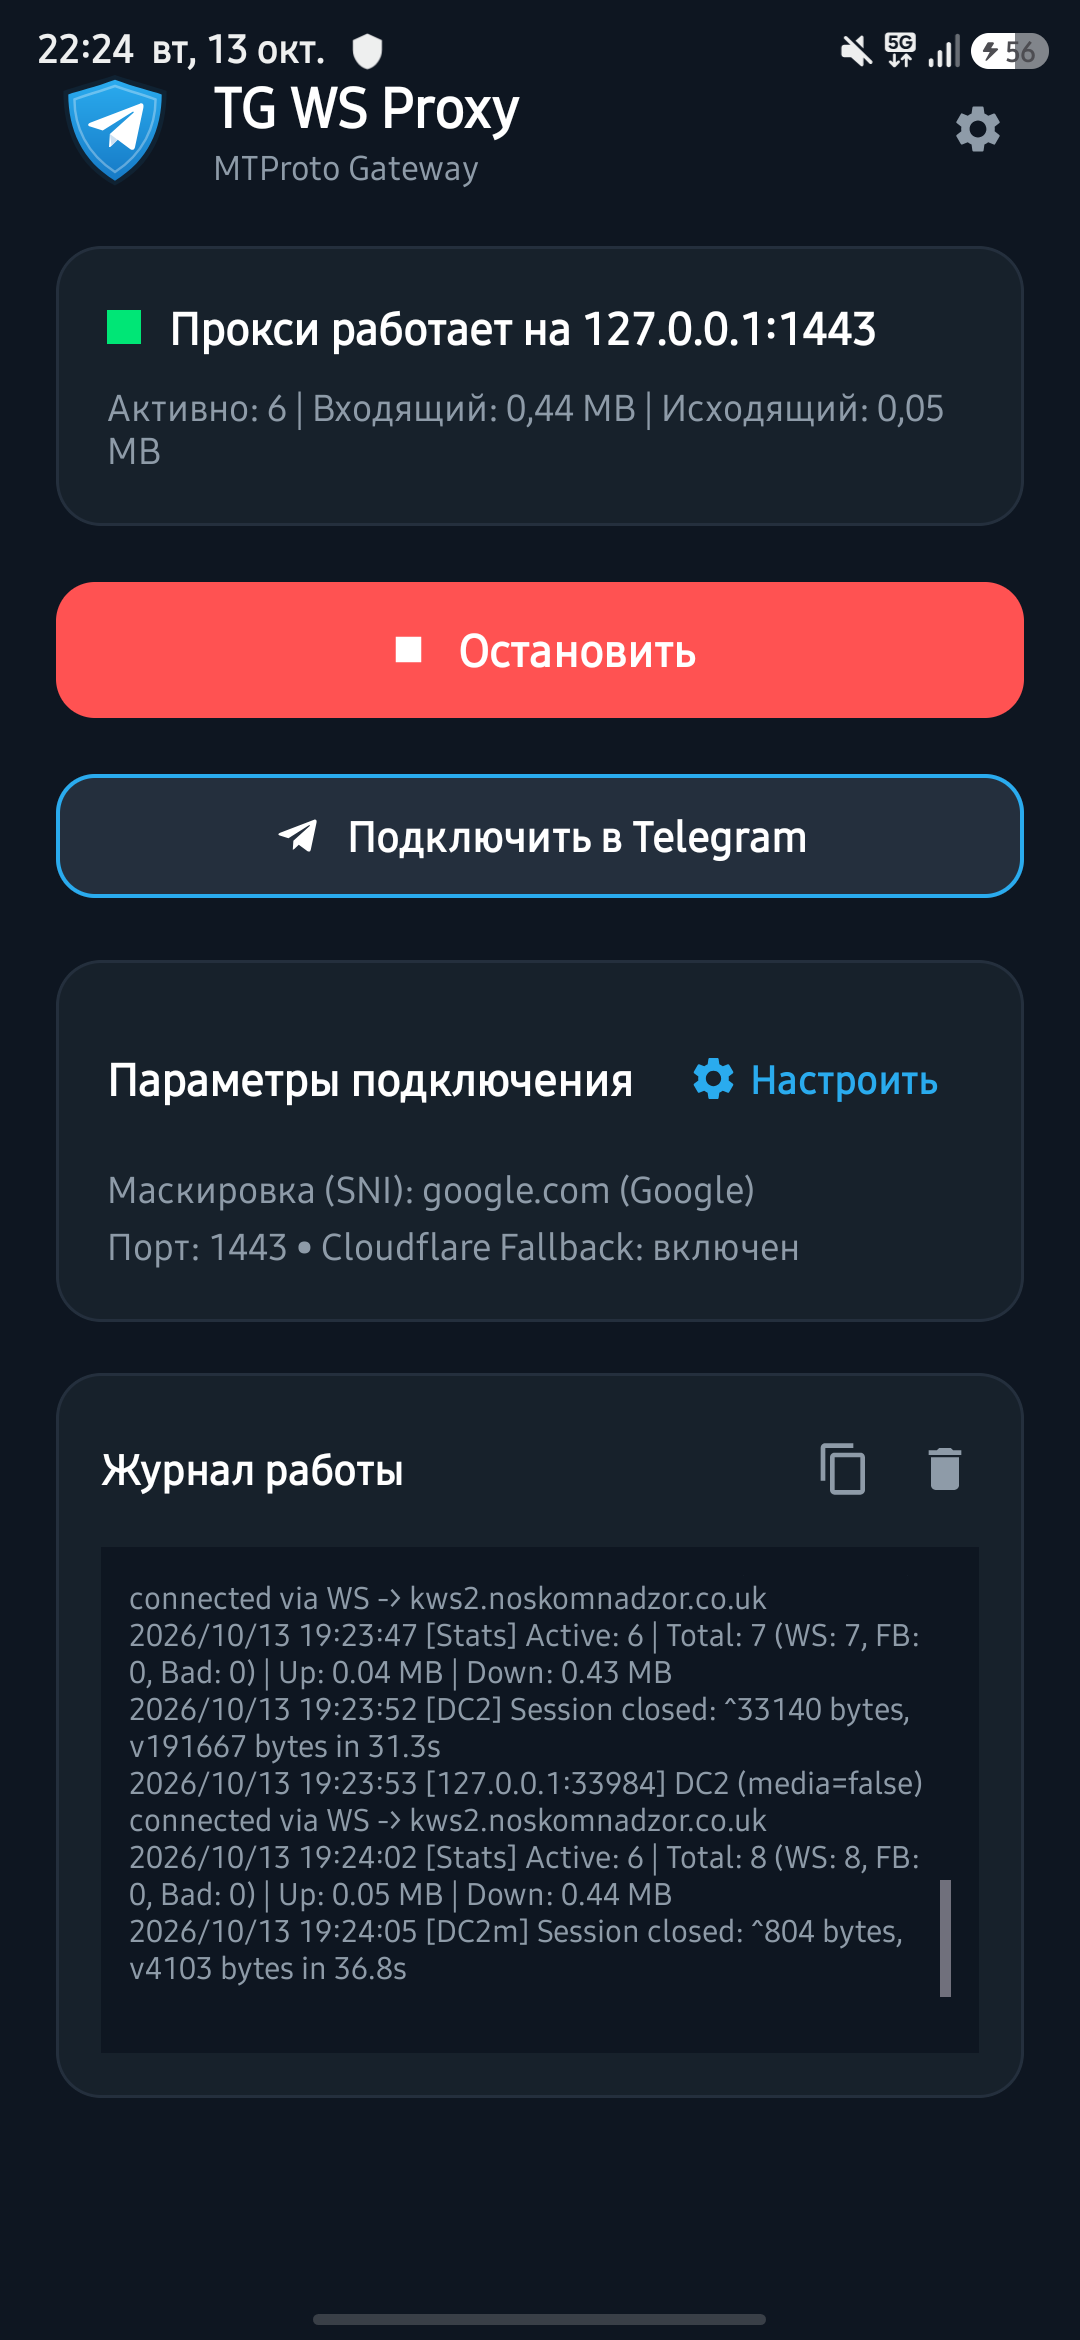
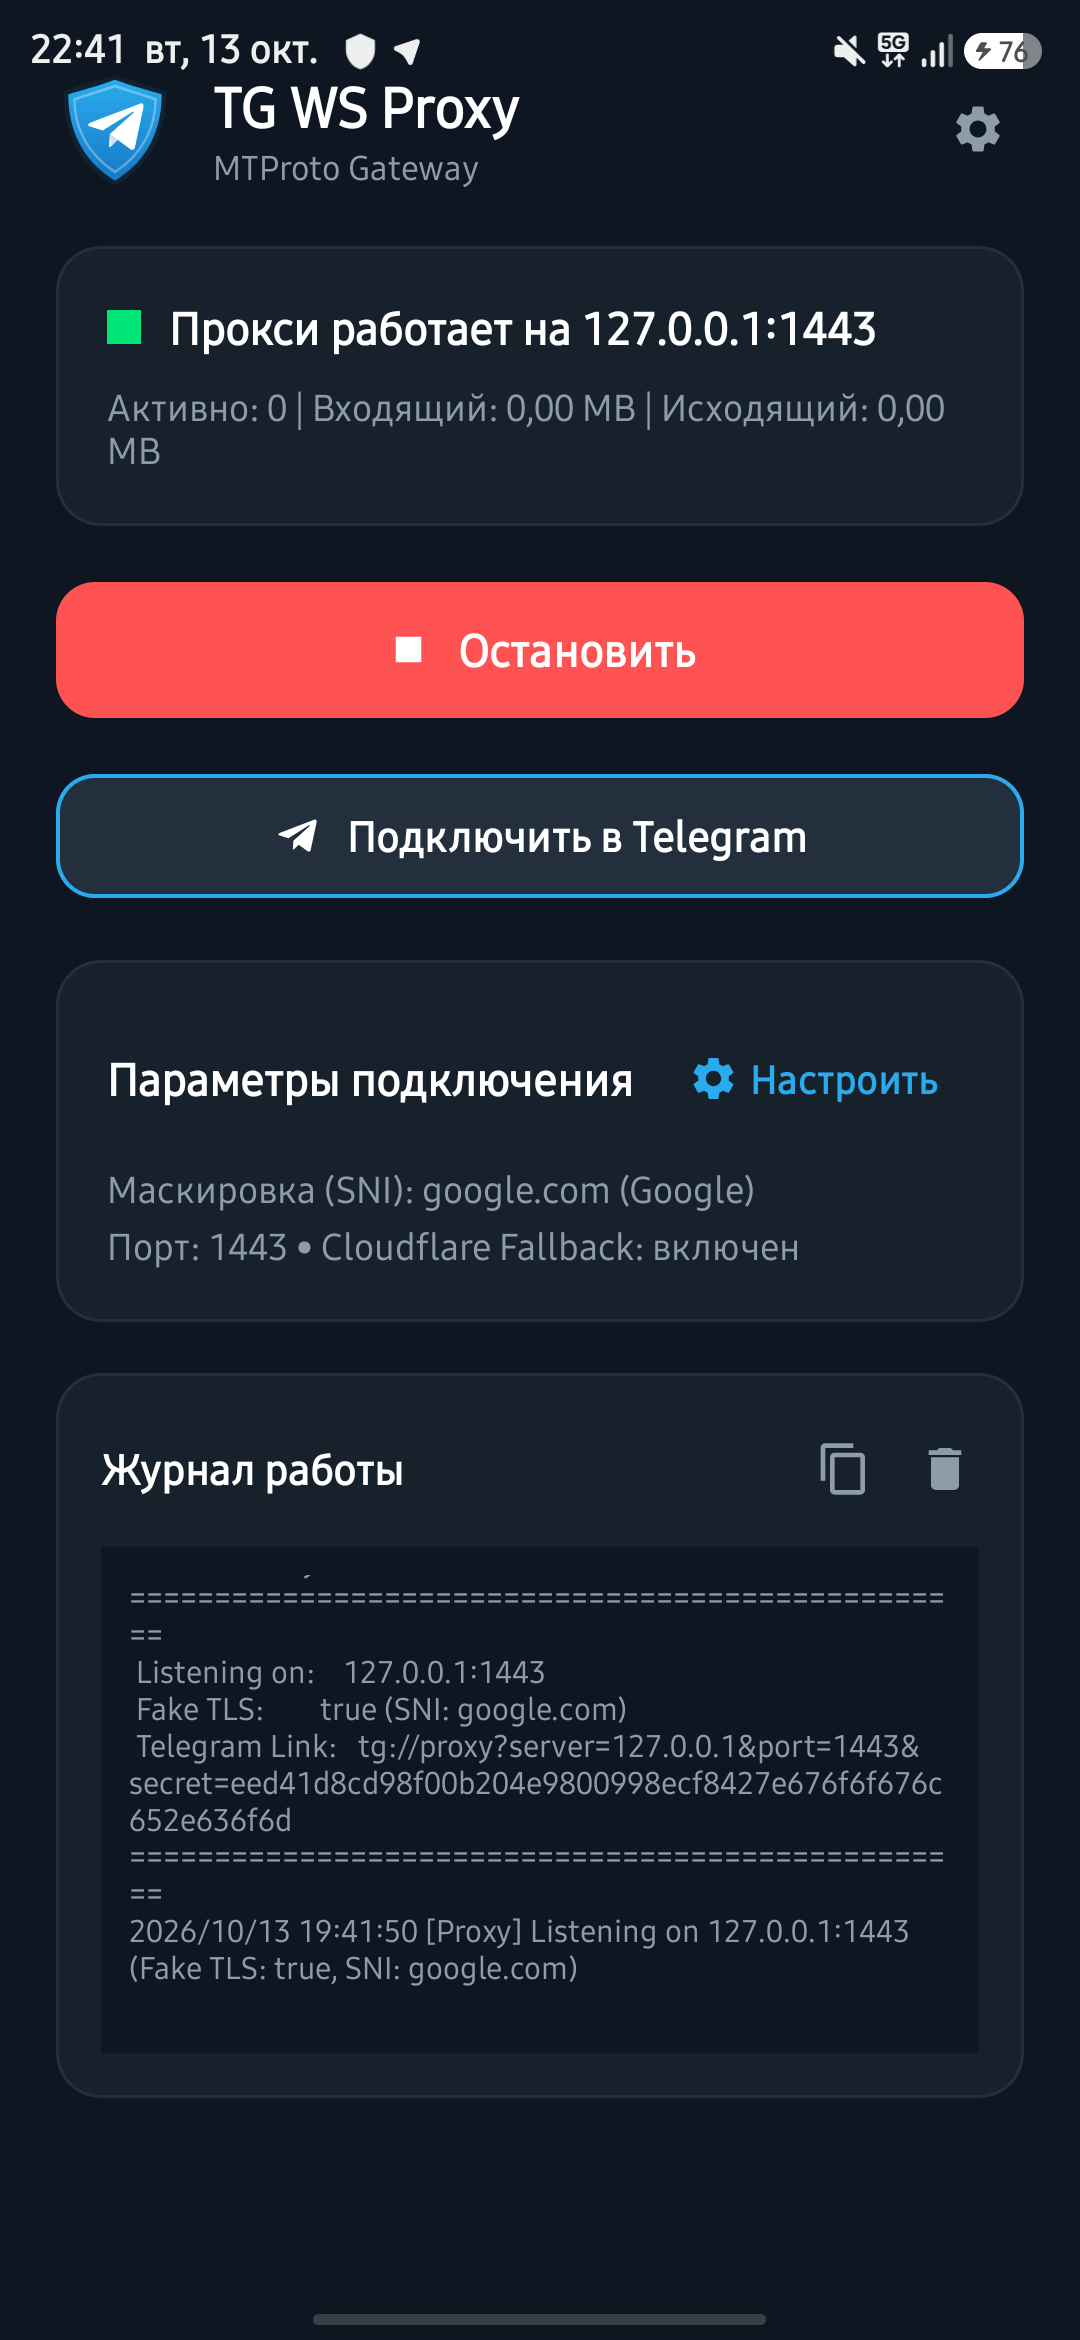
docs: fix badges and add physical device screenshots

diff --git a/README.md b/README.md
@@ -1,7 +1,8 @@
 # TG WS Proxy for Android
 
 [![Platform](https://img.shields.io/badge/Platform-Android%207.0%2B%20(API%2024%2B)-brightgreen.svg)](https://android.com)
-[![Language](https://img.shields.io/badge/Kotlin-1.9%20%7C%20Go-1.22%2B-blue.svg)](https://kotlinlang.org)
+[![Kotlin](https://img.shields.io/badge/Kotlin-1.9-7F52FF?logo=kotlin&logoColor=white)](https://kotlinlang.org)
+[![Go](https://img.shields.io/badge/Go-1.22%2B-00ADD8?logo=go&logoColor=white)](https://golang.org)
 [![Architecture](https://img.shields.io/badge/Arch-arm64--v8a%20%7C%20armeabi--v7a%20%7C%20x86__64-orange.svg)](#)
 [![License](https://img.shields.io/badge/License-MIT-purple.svg)](LICENSE)
 
@@ -14,9 +15,9 @@
 ## Скриншоты
 
 <p align="center">
-  <img src="docs/screenshots/screen_main.png" width="45%" alt="Главный экран">
-  &nbsp;&nbsp;&nbsp;&nbsp;
-  <img src="docs/screenshots/screen_settings.png" width="45%" alt="Умные настройки">
+  <img src="docs/screenshots/screen_main.png" width="320" alt="Главный экран">
+  &nbsp;&nbsp;&nbsp;&nbsp;&nbsp;&nbsp;
+  <img src="docs/screenshots/screen_settings.png" width="320" alt="Умные настройки">
 </p>
 
 ---
